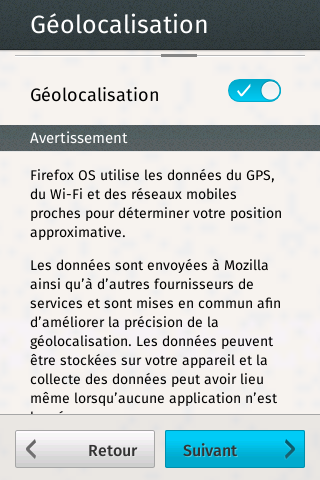
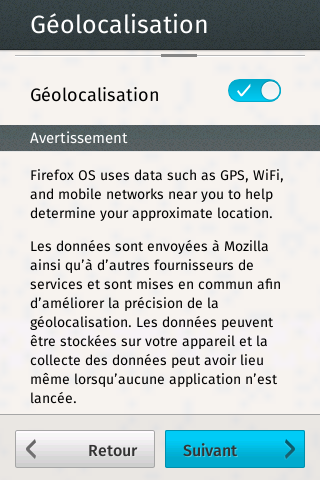
Update (fr updated by hg repo)

Changed region(s): [[0.0938, 0.3438, 0.875, 0.8438]]

diff --git a/apps_communications_ftu_fr.html b/apps_communications_ftu_fr.html
@@ -13,7 +13,7 @@
           <th>Old</th>
           <th>Diff</th>
         </tr>
-        <tr class='ok'>
+        <tr class='changed'>
           <td class='id'>geolocation</td>
           <td class='new'>
             <a href='screenshots/fr/apps/communications/ftu/geolocation.jpeg'>
@@ -26,6 +26,9 @@
             </a>
           </td>
           <td class='diff'>
+            <a href='screenshots/fr/apps/communications/ftu/geolocation.diff.jpeg'>
+              <img src='screenshots/fr/apps/communications/ftu/geolocation.diff.jpeg'/>
+            </a>
           </td>
         </tr>
         <tr class='ok'>
@@ -134,21 +137,6 @@
           </td>
         </tr>
         <tr class='ok'>
-          <td class='id'>welcome_browser</td>
-          <td class='new'>
-            <a href='screenshots/fr/apps/communications/ftu/welcome_browser.jpeg'>
-              <img src='screenshots/fr/apps/communications/ftu/welcome_browser.jpeg'/>
-            </a>
-          </td>
-          <td class='old'>
-            <a href='screenshots/fr/apps/communications/ftu/welcome_browser.old.jpeg'>
-              <img src='screenshots/fr/apps/communications/ftu/welcome_browser.old.jpeg'/>
-            </a>
-          </td>
-          <td class='diff'>
-          </td>
-        </tr>
-        <tr class='ok'>
           <td class='id'>data_3g-unlock_sim_screen-puk_screen-wrong_puk-2nd_time</td>
           <td class='new'>
             <a href='screenshots/fr/apps/communications/ftu/data_3g-unlock_sim_screen-puk_screen-wrong_puk-2nd_time.jpeg'>
@@ -158,6 +146,21 @@
           <td class='old'>
             <a href='screenshots/fr/apps/communications/ftu/data_3g-unlock_sim_screen-puk_screen-wrong_puk-2nd_time.old.jpeg'>
               <img src='screenshots/fr/apps/communications/ftu/data_3g-unlock_sim_screen-puk_screen-wrong_puk-2nd_time.old.jpeg'/>
+            </a>
+          </td>
+          <td class='diff'>
+          </td>
+        </tr>
+        <tr class='ok'>
+          <td class='id'>welcome_browser</td>
+          <td class='new'>
+            <a href='screenshots/fr/apps/communications/ftu/welcome_browser.jpeg'>
+              <img src='screenshots/fr/apps/communications/ftu/welcome_browser.jpeg'/>
+            </a>
+          </td>
+          <td class='old'>
+            <a href='screenshots/fr/apps/communications/ftu/welcome_browser.old.jpeg'>
+              <img src='screenshots/fr/apps/communications/ftu/welcome_browser.old.jpeg'/>
             </a>
           </td>
           <td class='diff'>
@@ -268,7 +271,7 @@
           <td class='diff'>
           </td>
         </tr>
-        <tr class='ok'>
+        <tr class='changed'>
           <td class='id'>date_and_time</td>
           <td class='new'>
             <a href='screenshots/fr/apps/communications/ftu/date_and_time.jpeg'>
@@ -281,6 +284,9 @@
             </a>
           </td>
           <td class='diff'>
+            <a href='screenshots/fr/apps/communications/ftu/date_and_time.diff.jpeg'>
+              <img src='screenshots/fr/apps/communications/ftu/date_and_time.diff.jpeg'/>
+            </a>
           </td>
         </tr>
         <tr class='ok'>
@@ -313,7 +319,7 @@
           <td class='diff'>
           </td>
         </tr>
-        <tr class='ok'>
+        <tr class='changed'>
           <td class='id'>import_contacts</td>
           <td class='new'>
             <a href='screenshots/fr/apps/communications/ftu/import_contacts.jpeg'>
@@ -326,6 +332,9 @@
             </a>
           </td>
           <td class='diff'>
+            <a href='screenshots/fr/apps/communications/ftu/import_contacts.diff.jpeg'>
+              <img src='screenshots/fr/apps/communications/ftu/import_contacts.diff.jpeg'/>
+            </a>
           </td>
         </tr>
         <tr class='ok'>

diff --git a/index.html b/index.html
@@ -56,7 +56,7 @@
           <td class='changed'><a href=apps_communications_ftu_ca.html>CHANGED</a></td>
           <td class='changed'><a href=apps_communications_ftu_de.html>CHANGED</a></td>
           <td class='changed'><a href=apps_communications_ftu_tr.html>CHANGED</a></td>
-          <td class='ok'><a href=apps_communications_ftu_fr.html>OK</a></td>
+          <td class='changed'><a href=apps_communications_ftu_fr.html>CHANGED</a></td>
           <td class='changed'><a href=apps_communications_ftu_el.html>CHANGED</a></td>
         </tr>
       </tbody>
